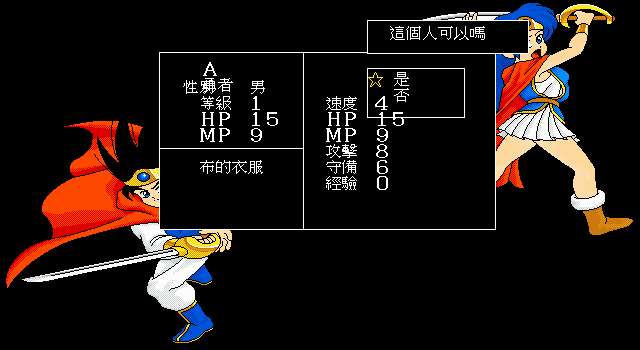
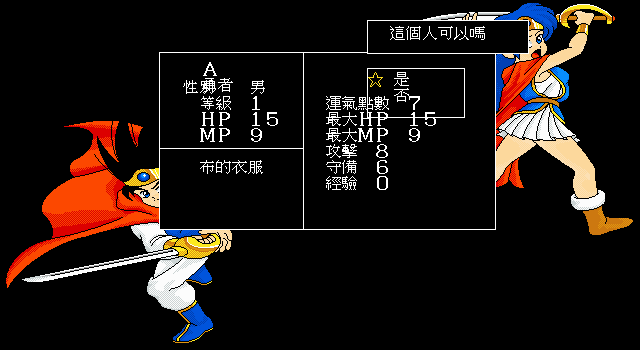
校正開場能力欄位並重建桌面發佈包

Changed region(s): [[0.5, 0.2571, 0.6875, 0.4], [0.625, 0.2571, 0.6562, 0.2857]]

diff --git a/dq3_remake_ebitan/game/newgame.go b/dq3_remake_ebitan/game/newgame.go
@@ -241,9 +241,12 @@ func drawNewGameStats(rgba []byte, tx *dq3data.Text, nf *NewGameFlow, white, yel
 	}
 
 	x := geo.StatsRightRows.X
-	drawNGRow(rgba, tx, x, geo.StatsRightRows.Y, nf.labels.Agility, int(nf.preview[stats.AGI]), white)
-	drawNGRow(rgba, tx, x, geo.StatsRightRows.Y+geo.StatsRightRows.StepY, nf.labels.HP, int(nf.preview[stats.HP]), white)
-	drawNGRow(rgba, tx, x, geo.StatsRightRows.Y+2*geo.StatsRightRows.StepY, nf.labels.MP, int(nf.preview[stats.MP]), white)
+	// 原版能力確認右欄不是「速度／HP／MP」：record 407 的這個面板
+	// 依序顯示「運氣點數／最大HP／最大MP／攻擊力／守備力／經驗」。
+	// `agility` 仍保留給詳細狀況窗的 pack 對映，但不能拿來填此六列。
+	drawNGRow(rgba, tx, x, geo.StatsRightRows.Y, nf.labels.Luck, int(nf.preview[stats.LUCK]), white)
+	drawNGRow(rgba, tx, x, geo.StatsRightRows.Y+geo.StatsRightRows.StepY, nf.labels.MaxHP, int(nf.preview[stats.HP]), white)
+	drawNGRow(rgba, tx, x, geo.StatsRightRows.Y+2*geo.StatsRightRows.StepY, nf.labels.MaxMP, int(nf.preview[stats.MP]), white)
 	drawNGRow(rgba, tx, x, geo.StatsRightRows.Y+3*geo.StatsRightRows.StepY, nf.labels.Attack, int(nf.preview[stats.STR]), white)
 	drawNGRow(rgba, tx, x, geo.StatsRightRows.Y+4*geo.StatsRightRows.StepY, nf.labels.Defense, nf.previewDef, white)
 	drawNGRow(rgba, tx, x, geo.StatsRightRows.Y+5*geo.StatsRightRows.StepY, nf.labels.Experience, 0, white)

diff --git a/dq3_remake_ebitan/internal/gamepack/gamepack.go b/dq3_remake_ebitan/internal/gamepack/gamepack.go
@@ -167,6 +167,9 @@ type NewGameLabels struct {
 	HP              []int    `json:"hp"`
 	MP              []int    `json:"mp"`
 	Agility         []int    `json:"agility"`
+	Luck            []int    `json:"luck"`
+	MaxHP           []int    `json:"max_hp"`
+	MaxMP           []int    `json:"max_mp"`
 	Attack          []int    `json:"attack"`
 	Defense         []int    `json:"defense"`
 	Experience      []int    `json:"experience"`
@@ -279,7 +282,9 @@ func (l *NewGameLabels) Entries() map[string][]int {
 		"load": append([]int(nil), l.Load...), "male": append([]int(nil), l.Male...),
 		"female": append([]int(nil), l.Female...), "level": append([]int(nil), l.Level...),
 		"hp": append([]int(nil), l.HP...), "mp": append([]int(nil), l.MP...),
-		"agility": append([]int(nil), l.Agility...), "attack": append([]int(nil), l.Attack...),
+		"agility": append([]int(nil), l.Agility...), "luck": append([]int(nil), l.Luck...),
+		"max_hp": append([]int(nil), l.MaxHP...), "max_mp": append([]int(nil), l.MaxMP...),
+		"attack":  append([]int(nil), l.Attack...),
 		"defense": append([]int(nil), l.Defense...), "experience": append([]int(nil), l.Experience...),
 		"sex": append([]int(nil), l.Sex...), "hero": append([]int(nil), l.Hero...),
 		"cloth": append([]int(nil), l.Cloth...), "prompt": append([]int(nil), l.Prompt...),

diff --git a/dq3_remake_ebitan/internal/gamepack/gamepack_test.go b/dq3_remake_ebitan/internal/gamepack/gamepack_test.go
@@ -1847,6 +1847,9 @@ func TestDQ3NewGameLabelsMatchOriginalGlyphs(t *testing.T) {
 		"hp":                {22, 30},
 		"mp":                {27, 30},
 		"agility":           {282, 283},
+		"luck":              {276, 426, 425, 427},
+		"max_hp":            {291, 163, 22, 30},
+		"max_mp":            {291, 163, 27, 30},
 		"attack":            {623, 624},
 		"defense":           {340, 409},
 		"experience":        {525, 526},

diff --git a/docs/114-release-artifacts.md b/docs/114-release-artifacts.md
@@ -11,33 +11,34 @@ WASM 不列入本輪發佈目標，也沒有把未完成的行動版／瀏覽器
 
 | 平台 | 檔案 | 大小（bytes） | SHA-256 |
 | --- | --- | ---: | --- |
[8 lines of base64/hex data omitted]
 
 Linux 檔案是使用專案固定的 `work/.tools/runtime-x86_64` 與 `appimagetool` 產出的
 Type 2 AppImage，已在無 FUSE 的 Docker 內以 `--appimage-extract` 解包驗證；解包後的
 內嵌 ELF 路徑為 `squashfs-root/usr/bin/dq3-remake`，其 SHA-256 與同一目錄保留的
-`dq3-remake-linux-amd64` 直接 ELF 相同（13,261,768 bytes，
[1 lines of base64/hex data omitted]
+`dq3-remake-linux-amd64` 直接 ELF 相同（13,270,216 bytes，
[1 lines of base64/hex data omitted]
 `Dragon Quest III.app/Contents/Info.plist` 與對應架構的可執行檔。桌面外部 game pack 仍可在
 不重新編譯的情況下替換，但需通過 schema、reference、content hash 及資產路徑驗證。
-本次 macOS 內層執行檔為 Mach-O `x86_64`（12,433,704 bytes，SHA-256
[1 lines of base64/hex data omitted]
+本次 macOS 內層執行檔為 Mach-O `x86_64`（12,441,896 bytes，SHA-256
[1 lines of base64/hex data omitted]
 （11,849,602 bytes，SHA-256
[1 lines of base64/hex data omitted]
-執行檔為 12,674,048 bytes，SHA-256
[2 lines of base64/hex data omitted]
+執行檔為 12,677,120 bytes，SHA-256
[1 lines of base64/hex data omitted]
 
 ## 推廣片
 
-`dist/dq3-promo-20260810.mp4` 由版控的 Ebiten runtime 截圖 `docs/img/*.png` 剪輯成
-1280×700、30 fps、H.264 的 45.434 秒無音軌推廣片，SHA-256 為
[1 lines of base64/hex data omitted]
-bytes。片中依序展示開場城鎮、城鎮行走、船、日邦格八頭大蛇兩戰、商人事件、黃金球、
-耶進貝亞解謎、黑暗之燈、勇氣洞窟、最終鑰匙與提頓門；沒有把診斷用文字或舊 C/SDL
-錄製幀當成目前 Go/Ebitengine 畫面。
+`dist/dq3-promo-20260810.mp4` 由版控的 Ebiten runtime PNG（含本輪修正後的
+`dq3_remake_ebitan/docs/ng_confirm.png`）剪輯成 1280×700、30 fps、H.264 的 44.967 秒
+無音軌推廣片，SHA-256 為
[1 lines of base64/hex data omitted]
+bytes。片中依序展示開場創角／家中／王城、地表與戰鬥、日邦格八頭大蛇兩戰、商人／黃金球／
+解謎、提頓／勇氣洞窟、不死鳥、下世界與 `THE END`；沒有把診斷用文字或舊 C/SDL 錄製幀
+當成目前 Go/Ebitengine 畫面。
 
 ## 驗證界線
 
@@ -46,6 +47,9 @@ bytes。片中依序展示開場城鎮、城鎮行走、船、日邦格八頭大
 - 本輪狀況窗切片：`go test ./internal/...` 全數通過；Docker＋Xvfb 的
   `go test ./game -run "Test(Panel|OpeningParity|CmdMenuDrawHits|Equipment|Field)"` 通過，
   並完成桌面交叉編譯。
+- 本輪開場欄位切片：Docker＋Xvfb 的
+  `go test ./game -run "Test(NewGame|DumpNewGameScreens)"` 通過，並以同一容器重產
+  `dq3_remake_ebitan/docs/ng_confirm.png`；完整長測試仍依使用者指示不重跑。
 - 本輪 CTY 遭遇閘門：`go test ./internal/dq3data -run "Test(OpenTown.*Encounter|Encounter)"`
   與 `go test . -run "Test(Save|Encounter)"` 均在 Docker＋Xvfb 通過。
 - 完整長測試套件依使用者指示不再重跑；這不取代上述正式主線 trace，也不把尚未 V3 的
@@ -59,5 +63,5 @@ macOS `.app`／ZIP 由 `tools/package_macos_bundle.sh`（`RELEASE_DATE=20260810`
 版本的 `dq3-ebiten-windows:20260810`（由 `dq3_remake_ebitan/Dockerfile.windows` 建立，
 Go 1.26.5＋Debian bookworm MinGW-w64）；本輪
 詳細狀況窗資料化後，以目前 Go/Ebitengine 原始碼重新編譯四個桌面執行檔。AppImage 內嵌
[2 lines of base64/hex data omitted]
 與旁置 Linux ELF 相同。所有發佈包雜湊均為本輪重建後重新計算，不沿用舊版數值。

diff --git a/docs/112-newgame-labels-re.md b/docs/112-newgame-labels-re.md
@@ -20,7 +20,9 @@ EGA 框線 pattern、逐幀游標／閃爍與同狀態演出，不把單張 PNG 
 | `load` | `712,519,696,283` | 載入進度 |
 | `male` / `female` | `775,674` / `234,674` | 性別選項／能力確認性別 |
 | `level` / `hp` / `mp` | `419,420` / `22,30` / `27,30` | 能力確認左欄 |
-| `agility` / `attack` / `defense` / `experience` | `282,283` / `623,624` / `340,409` / `525,526` | 能力確認右欄 |
+| `agility` | `282,283` | 詳細狀況窗的「速度」欄；不是開場確認右欄第一列 |
+| `luck` / `max_hp` / `max_mp` | `276,426,425,427` / `291,163,22,30` / `291,163,27,30` | 開場能力確認右欄的「運氣點數／最大HP／最大MP」 |
+| `attack` / `defense` / `experience` | `623,624` / `340,409` / `525,526` | 開場能力確認右欄的「攻擊力／守備力／經驗」 |
 | `sex` / `hero` / `cloth` | `674,417` / `106,187` / `190,149,191,192` | 能力確認固定標籤 |
 | `prompt` | `398,546,194,229,456,534` | 「這個人可以嗎」 |
 | `yes` / `no` | `399` / `678` | 能力確認選項 |
@@ -42,6 +44,14 @@ EGA 框線 pattern、逐幀游標／閃爍與同狀態演出，不把單張 PNG 
   `TestDQ3NewGameLabelsMatchOriginalGlyphs` 會檢查字型大小、雜湊與完整 role 對映。
 - 目前推論等級為 **D2**：字模資料與玩家可見畫面已對齊，但本批尚未另行匯出每個
   glyph 的 IDA writer→consumer sidecar，因此不宣稱 D3。
+- `docs/dosbox/v3_01_afterstats.png` 的右欄逐 glyph 解碼修正了先前把「運氣點數／最大HP／最大MP」
+  誤標成「速度／HP／MP」的欄位。`agility` 保留為詳細狀況窗的獨立 role；開場確認 renderer
+  現在只使用 `luck`、`max_hp`、`max_mp`、`attack`、`defense`、`experience` 六列。
+- 本次只閉合欄位語意與 JSON→renderer 對映；目前外框仍是簡化 1px 白框，原版 EGA
+  pattern／藍色選項框與同輸入逐像素對拍仍是 V3 缺口。
+- Docker＋Xvfb 重新產出的 `dq3_remake_ebitan/docs/ng_confirm.png` SHA-256 為
[1 lines of base64/hex data omitted]
+  runtime 可重現，不取代原版同輸入 V3 對拍。
 - 此欄位只描述字模，不描述文字控制碼或任意 JSON 程式碼。姓名輸入的 raw 45 格→欄優先
   cell 換算、功能列焦點與完成 gate 仍由共用狀態機處理；畫面幾何由
   `new_game_geometry` 契約提供。

diff --git a/docs/74-ebiten-remake-completion-plan.md b/docs/74-ebiten-remake-completion-plan.md
@@ -95,7 +95,7 @@
 | 標題 | DOSBox、影片、網路圖 | 標題／主選單／創角 lifecycle 已有 | E2；逐畫面仍待對拍 |
 | attract 職業巡禮 | 影片、`docs/67` TITH–TITO | pack 八卡輪播、輸入中斷、runtime 圖已接 | E2／V1；能力條逐幀仍待 V3 |
 | 主選單 | DOSBox、網路圖 | 已有新遊戲／載入框架 | 需輸入與版面 E2 |
-| 主角姓名／性別 | DOSBox 逐鍵截圖 | 已有共用元件與正式 trace；`FIRST.SCR` 能力確認背景已由 pack 接入 | E3；背景原始檔尺寸／解碼與配色 D2、runtime V2，stat panel／幾何仍待 V3 |
+| 主角姓名／性別 | DOSBox 逐鍵截圖 | 已有共用元件與正式 trace；`FIRST.SCR` 能力確認背景、右欄六個原版欄位已由 pack 接入 | E3；背景原始檔尺寸／解碼與配色 D2、runtime V2，EGA 框線 pattern／同狀態 stat panel 仍待 V3 |
 | 家中／母親 | DOSBox、影片 | sec4+rec82/83；handler54 transaction 已接 | E3；逐格護送動畫仍待 V3 |
 | 王城謁見 | 攻略、影片、地圖 | 正式 region gate／精確獎勵／一次性已接 | E3；原版畫面仍待 V3 |
 | 酒場／登錄所 | 攻略、D3TXT、地圖、EXE handler | 正式入口與四人隊正常輸入 trace 已閉合（2026-07-28） | E3 |
@@ -796,3 +796,11 @@ D3TXT00 record 407 的 22×12 glyph/control stream 已寫入 `interface.json.fie
 `dq3_remake_ebitan/docs/status_detail_runtime.png`，狀態面板達 E2／V2；完整入口、子選單、
 隊員詳情、道具／裝備逐窗與同狀態原版 V3 對拍仍未閉合。raw bytes、位址基準、推論等級與
 限制見 [`docs/116`](116-field-status-panel-re.md)，欄位契約見 [`docs/84`](84-game-pack-json-contract.md)。
+
+2026-08-10 開場能力確認欄位勘誤與資料接線：由 `docs/dosbox/v3_01_afterstats.png` 與
+D3TXT00 record 407 的 glyph code 逐列解碼，確認右欄不是舊 renderer 使用的「速度／HP／MP」，
+而是「運氣點數／最大HP／最大MP／攻擊力／守備力／經驗」。`interface.json.new_game_labels`
+新增 `luck`、`max_hp`、`max_mp`；`NewGameFlow` 依正式 pack 讀取並將 `stats.LUCK`、最大 HP、
+最大 MP 寫入對應列，`agility` 僅保留給詳細狀況窗。這修正設定資料 mismatch，證據仍為 D2、
+runtime 仍為 V2；原版 EGA pattern、藍色選項框與同狀態逐像素對拍另列 V3，不宣稱整個開場
+畫面已完成。

diff --git a/docs/84-game-pack-json-contract.md b/docs/84-game-pack-json-contract.md
@@ -1055,14 +1055,17 @@ fail closed；目前 DQ3 對映維持 D2，後續若要升為 D3 仍需補原版
 
 `interface.json.new_game_labels` 保存開場主選單、創角性別／能力確認，以及 D3TXT00
 records 451–456 的姓名畫面 glyph stream。固定欄位除了既有的 `title`、`start`、`load`、
-`male`、`female`、`level`、`hp`、`mp`、`agility`、`attack`、`defense`、`experience`、
+`male`、`female`、`level`、`hp`、`mp`、`agility`、`luck`、`max_hp`、`max_mp`、`attack`、
+`defense`、`experience`、
 `sex`、`hero`、`cloth`、`prompt`、`yes`、`no`、`backspace`、`ok` 外，還包括
 `name_title`、`name_left_arrow`、`name_right_arrow`、`name_zhuyin_grid`、
 `name_alnum_grid`、`function_zhuyin`、`function_alnum`、`input_mode_zhuyin`。前者是
 非空 `int[]`，兩個 grid 必須各為 45 格，兩個 function list 必須各為五列；
 不接受任意 JSON code 或直接玩家可見句子。整個物件必須有 `evidence`，目前 DQ3 為
 D2、來源 `D3TXT00.TXT records 451-456 + D3TXT00.FON`，完整對映與限制見
-[`docs/112`](112-newgame-labels-re.md)。
+[`docs/112`](112-newgame-labels-re.md)。其中 `agility` 是詳細狀況窗的「速度」role；開場
+能力確認右欄六列固定使用 `luck`、`max_hp`、`max_mp`、`attack`、`defense`、`experience`，
+不得以同義或較短的 `hp`／`mp`／`agility` 欄位代替。
 
 production `NewGameWithPack` 缺少 `new_game_labels` 即拒絕啟動；`NewGameFlow`、
 `NameInput`、`GenderSelect` 與酒館只依此契約繪製。`NameInput` 的畫面 raw index 採

diff --git a/README.md b/README.md
@@ -14,7 +14,8 @@
 標題閒置後的八張職業 attract 也已由 game-pack 接線，順序／PCX 達 D3、輪播 timing 達 E2；
 能力條逐幀填充與淡入淡出仍待 V3。
 新遊戲能力確認畫面的 `FIRST.SCR` raw 背景也已由 game-pack 載入，原始檔尺寸／解碼與配色維持 D2，runtime 背景達 V2；
-stat panel 幾何仍待同狀態 V3。
+右欄「運氣點數／最大HP／最大MP／攻擊力／守備力／經驗」已依 record 407 校正並資料化，
+但 EGA 框線 pattern 與 stat panel 同狀態逐像素對拍仍待 V3。
 地表詳細狀況窗則已依 `DGROUP 0x3DA8`／D3TXT00 record 407 資料化，runtime 達 E2／V2；
 狀況子選單、隊員詳情與道具／裝備逐窗仍待同狀態 V3，詳見 [`docs/116`](docs/116-field-status-panel-re.md)。
 
